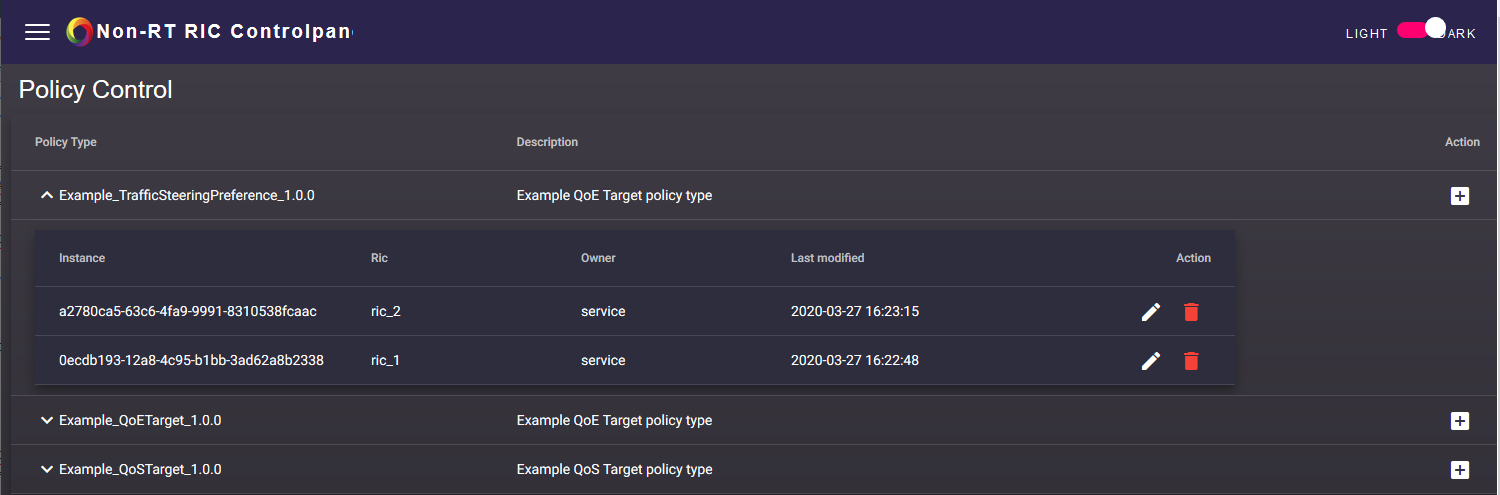
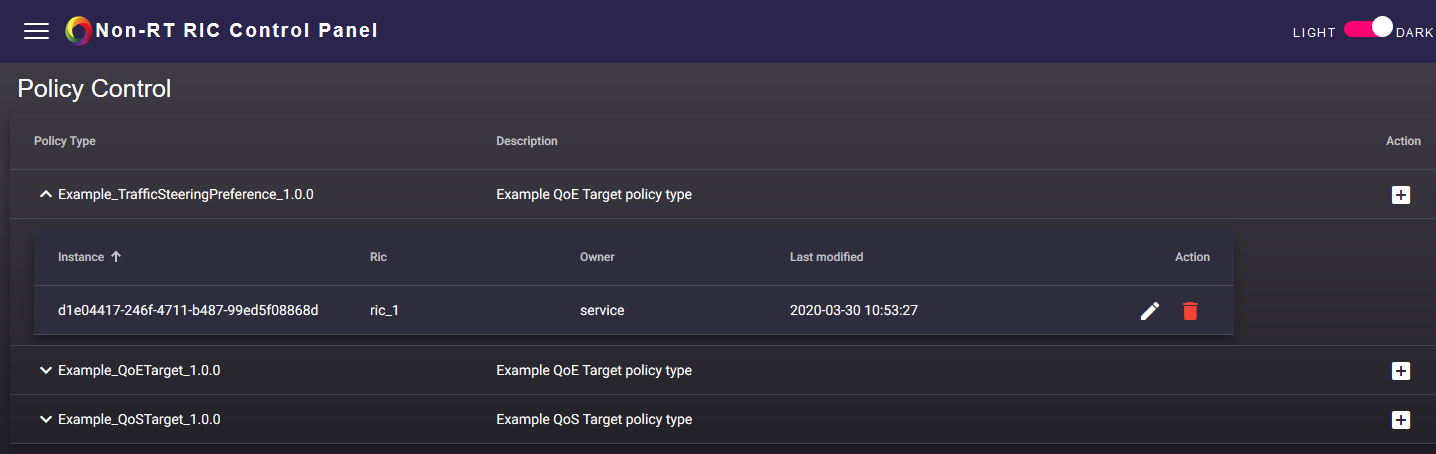
Correct spelling mistake in name of component
Name should be Control Panel, not Controlpanel.

Issue-ID: NONRTRIC-166

diff --git a/webapp-frontend/src/app/controlpanel.component.html b/webapp-frontend/src/app/controlpanel.component.html
@@ -33,10 +33,10 @@
             class="hamburger__icon__fill" data-name="Rectangle 11" rx="2" transform="translate(31.5 30)" />
         </svg>
         <img src="../../assets/oran-logo.png" width="180%" height="100%" style="position: relative; z-index: 50" />
-        <svg class="logo__icon" viewBox="150.3 22.2 400 50">
+        <svg class="logo__icon" viewBox="150.3 22.2 450 50">
           <text [ngClass]="{'logo__text-dark': darkMode}" class="logo__text" fill="#432c85" font-size="30"
             font-weight="600" letter-spacing=".1em" transform="translate(149 56)">
-            <tspan x="0" y="0">Non-RT RIC Controlpanel</tspan>
+            <tspan x="0" y="0">Non-RT RIC Control Panel</tspan>
           </text>
         </svg>
 
@@ -74,10 +74,10 @@
               class="hamburger__icon__fill" data-name="Rectangle 11" rx="2" transform="translate(31.5 30)" />
           </svg>
           <img src="../../assets/oran-logo.png" width="180%" height="100%" style="position: relative; z-index: 50" />
-          <svg class="logo__icon" viewBox="150.3 22.2 400 50">
+          <svg class="logo__icon" viewBox="150.3 22.2 450 50">
             <text [ngClass]="{'logo__text-dark': darkMode}" class="logo__text" fill="#432c85" font-size="30"
               font-weight="600" letter-spacing=".1em" transform="translate(149 56)">
-              <tspan x="0" y="0">Non-RT RIC Controlpanel</tspan>
+              <tspan x="0" y="0">Non-RT RIC Control Panel</tspan>
             </text>
           </svg>
 

diff --git a/webapp-frontend/src/app/services/controlpanel/controlpanel.service.ts b/webapp-frontend/src/app/services/controlpanel/controlpanel.service.ts
@@ -28,7 +28,7 @@ import { ControlpanelSuccessTransport, EcompUser } from '../../interfaces/contro
 })
 
 /**
- * Services to query the Controlpanel's admin endpoints.
+ * Services to query the Control Panel's admin endpoints.
  */
 export class ControlpanelService {
 
@@ -47,7 +47,7 @@ export class ControlpanelService {
   }
 
   /**
-   * Gets Controlpanel version details
+   * Gets Control Panel version details
    * @returns Observable that should yield a ControlpanelSuccessTransport object
    */
   getVersion(): Observable<ControlpanelSuccessTransport> {
@@ -55,7 +55,7 @@ export class ControlpanelService {
   }
 
   /**
-   * Gets Controlpanel users
+   * Gets Control Panel users
    * @returns Observable that should yield a EcompUser array
    */
   getUsers(): Observable<EcompUser[]> {

diff --git a/webapp-frontend/src/app/services/caas-ingress/caas-ingress.service.ts b/webapp-frontend/src/app/services/caas-ingress/caas-ingress.service.ts
@@ -24,7 +24,7 @@ import { V1PodList } from '@kubernetes/client-node';
 import { Observable } from 'rxjs';
 
 /**
-* Services for calling the Controlpanel caas-ingress endpoints to get Kubernetes details.
+* Services for calling the Control Panel caas-ingress endpoints to get Kubernetes details.
 */
 @Injectable({
   providedIn: 'root'

diff --git a/webapp-frontend/src/index.html b/webapp-frontend/src/index.html
@@ -22,7 +22,7 @@
 <html lang="en">
   <head>
     <meta charset="utf-8">
-    <title>Non-RT RIC Controlpanel</title>
+    <title>Non-RT RIC Control Panel</title>
     <base href="/">
     <meta name="viewport" content="width=device-width, initial-scale=1">
     <link rel="icon" type="image/x-icon" href="assets/oran-logo.png">

diff --git a/webapp-frontend/src/app/interfaces/controlpanel.types.ts b/webapp-frontend/src/app/interfaces/controlpanel.types.ts
@@ -19,7 +19,7 @@
  * ========================LICENSE_END===================================
  */
 
-// Models of data used by Controlpanel admin services
+// Models of data used by Control Panel admin services
 
 export interface ControlpanelSuccessTransport {
   status: number;

diff --git a/webapp-backend/src/main/resources/static/error.html b/webapp-backend/src/main/resources/static/error.html
@@ -29,7 +29,7 @@ html, body {
 </style>
 </head>
 <body>
-<h2>Non-RT RIC Controlpanel Error</h2>
+<h2>Non-RT RIC Control Panel Error</h2>
 <h4>The previous request could not be processed.</h4>
 <a href="/">Click here to reload the application</a>
 </body>

diff --git a/webapp-frontend/src/app/controlpanel.component.scss b/webapp-frontend/src/app/controlpanel.component.scss
@@ -233,7 +233,7 @@ mat-drawer-content {
 
 .mode-toggle__bg {
   height: 1rem;
-  width: 2rem;
+  width: 2.7rem;
   border-radius: 0.5rem;
   background-color: rgba(0, 0, 0, 0.5);
   display: inline-block;

diff --git a/webapp-backend/src/main/java/org/oransc/portal/nonrtric/controlpanel/portalapi/PortalAuthenticationFilter.java b/webapp-backend/src/main/java/org/oransc/portal/nonrtric/controlpanel/portalapi/PortalAuthenticationFilter.java
@@ -230,7 +230,7 @@ public class PortalAuthenticationFilter implements Filter {
             System.getProperty("line.separator"), //
             "<html>", //
             "<head>", //
-            "<title>Non-RT RIC Controlpanel</title>", //
+            "<title>Non-RT RIC Control Panel</title>", //
             "<style>", //
             "html, body { ", //
             "  font-family: Helvetica, Arial, sans-serif;", //
@@ -238,7 +238,7 @@ public class PortalAuthenticationFilter implements Filter {
             "</style>", //
             "</head>", //
             "<body>", //
-            "<h2>Non-RT RIC Controlpanel</h2>", //
+            "<h2>Non-RT RIC Control Panel</h2>", //
             "<h4>Please log in.</h4>", //
             "<p>", //
             aHref, "Click here to authenticate at the ONAP Portal</a>", //

diff --git a/webapp-backend/src/main/java/org/oransc/portal/nonrtric/controlpanel/config/SwaggerConfiguration.java b/webapp-backend/src/main/java/org/oransc/portal/nonrtric/controlpanel/config/SwaggerConfiguration.java
@@ -56,10 +56,10 @@ public class SwaggerConfiguration {
     private ApiInfo apiInfo() {
         final String version = ControlpanelApplication.class.getPackage().getImplementationVersion();
         return new ApiInfoBuilder() //
-            .title("Non-RT RIC Controlpanel backend") //
+            .title("Non-RT RIC Control Panel backend") //
             .description("Proxies access to Near-RT RIC.")//
             .termsOfServiceUrl("Terms of service") //
-            .contact(new Contact("Non-RT RIC Controlpanel Dev Team", //
+            .contact(new Contact("Non-RT RIC Control Panel Dev Team", //
                 "http://no-docs-yet.org/", //
                 "noreply@O-RAN-SC.org")) //
             .license("Apache 2.0 License").licenseUrl("http://www.apache.org/licenses/LICENSE-2.0") //

diff --git a/docs/overview.rst b/docs/overview.rst
@@ -2,23 +2,23 @@
 .. SPDX-License-Identifier: CC-BY-4.0
 
 
-Controlpanel Overview
-=====================
+Control Panel Overview
+======================
 
-The Non-RT RIC Controlpanel is a graphical user  user interface that enables the user to manage the Policies in the
-network. The Controlpanel interacts with the Policy agent via a REST API.
-The Controlpanel generates its GUI from JSON schemas in a model driven fashion.
+The Non-RT RIC Control Panel is a graphical user  user interface that enables the user to manage the Policies in the
+network. The Control Panel interacts with the Policy agent via a REST API.
+The Control Panel generates its GUI from JSON schemas in a model driven fashion.
 
-The Controlpanel consists of a back end implemented as a Java Spring Boot application and a fronted developed using the
+The Control Panel consists of a back end implemented as a Java Spring Boot application and a fronted developed using the
 Angular framework.
 
-Controlpanel architecture
--------------------------
+Control Panel architecture
+--------------------------
 
-The architecture of the Controlpanel is as shown on the following picture:
+The architecture of the Control Panel is as shown on the following picture:
 
 .. image:: ./images/architecture.png
    :scale: 50 %
 
-The Controlpanel itself is split into the backend and the frontend, and can be deployed following the instructions in
+The Control Panel itself is split into the backend and the frontend, and can be deployed following the instructions in
 the README.md file in the repo.

diff --git a/docs/release-notes.rst b/docs/release-notes.rst
@@ -6,7 +6,7 @@ Release-Notes
 =============
 
 
-This document provides the release notes for the release of the Non-RT RIC Controlpanel.
+This document provides the release notes for the release of the Non-RT RIC Control Panel.
 
 .. contents::
    :depth: 3
@@ -37,7 +37,7 @@ Release Data
 Bronze
 ------
 +--------------------------------------+--------------------------------------------------+
-| **Project**                          | Non-RT RIC Controlpanel                          |
+| **Project**                          | Non-RT RIC Control Panel                         |
 |                                      |                                                  |
 +--------------------------------------+--------------------------------------------------+
 | **Repo/commit-ID**                   |                                                  |
@@ -49,6 +49,6 @@ Bronze
 | **Release date**                     |                                                  |
 |                                      |                                                  |
 +--------------------------------------+--------------------------------------------------+
-| **Purpose of the delivery**          | Introducing Non-RT RIC Controlpanel              |
+| **Purpose of the delivery**          | Introducing Non-RT RIC Control Panel             |
 |                                      |                                                  |
 +--------------------------------------+--------------------------------------------------+

diff --git a/docs/developer-guide.rst b/docs/developer-guide.rst
@@ -4,17 +4,17 @@
 Developer Guide
 ===============
 
-This document provides a quickstart for developers of the Non-RT RIC Controlpanel.
+This document provides a quickstart for developers of the Non-RT RIC Control Panel.
 
-The Non-RT RIC Controlpanel is an interface that allows human users to create, edit and delete policy instances, for
+The Non-RT RIC Control Panel is an interface that allows human users to create, edit and delete policy instances, for
 each existing policy type. The policy types and their definitions are retrieved from each Near-RT RIC.
 
 See the README.md file in the nonrtric-controlpanel repo for info about how to use it.
 
-Start the Controlpanel for development
-======================================
+Start the Control Panel for development
+=======================================
 
-To run the control panel locally for development with simulated services, follow these steps:
+To run the Control Panel locally for development with simulated services, follow these steps:
 
 - Fetch the latest code from `gerrit`_
 
@@ -39,7 +39,7 @@ Start the frontend:
 
     ./ng serve --proxy-config proxy.conf.json
 
-- Now you can open URL:  `localhost:4200`_ in a browser to access the Controlpanel.
+- Now you can open URL:  `localhost:4200`_ in a browser to access the Control Panel.
 
 .. _localhost:4200: localhost:4200
 
